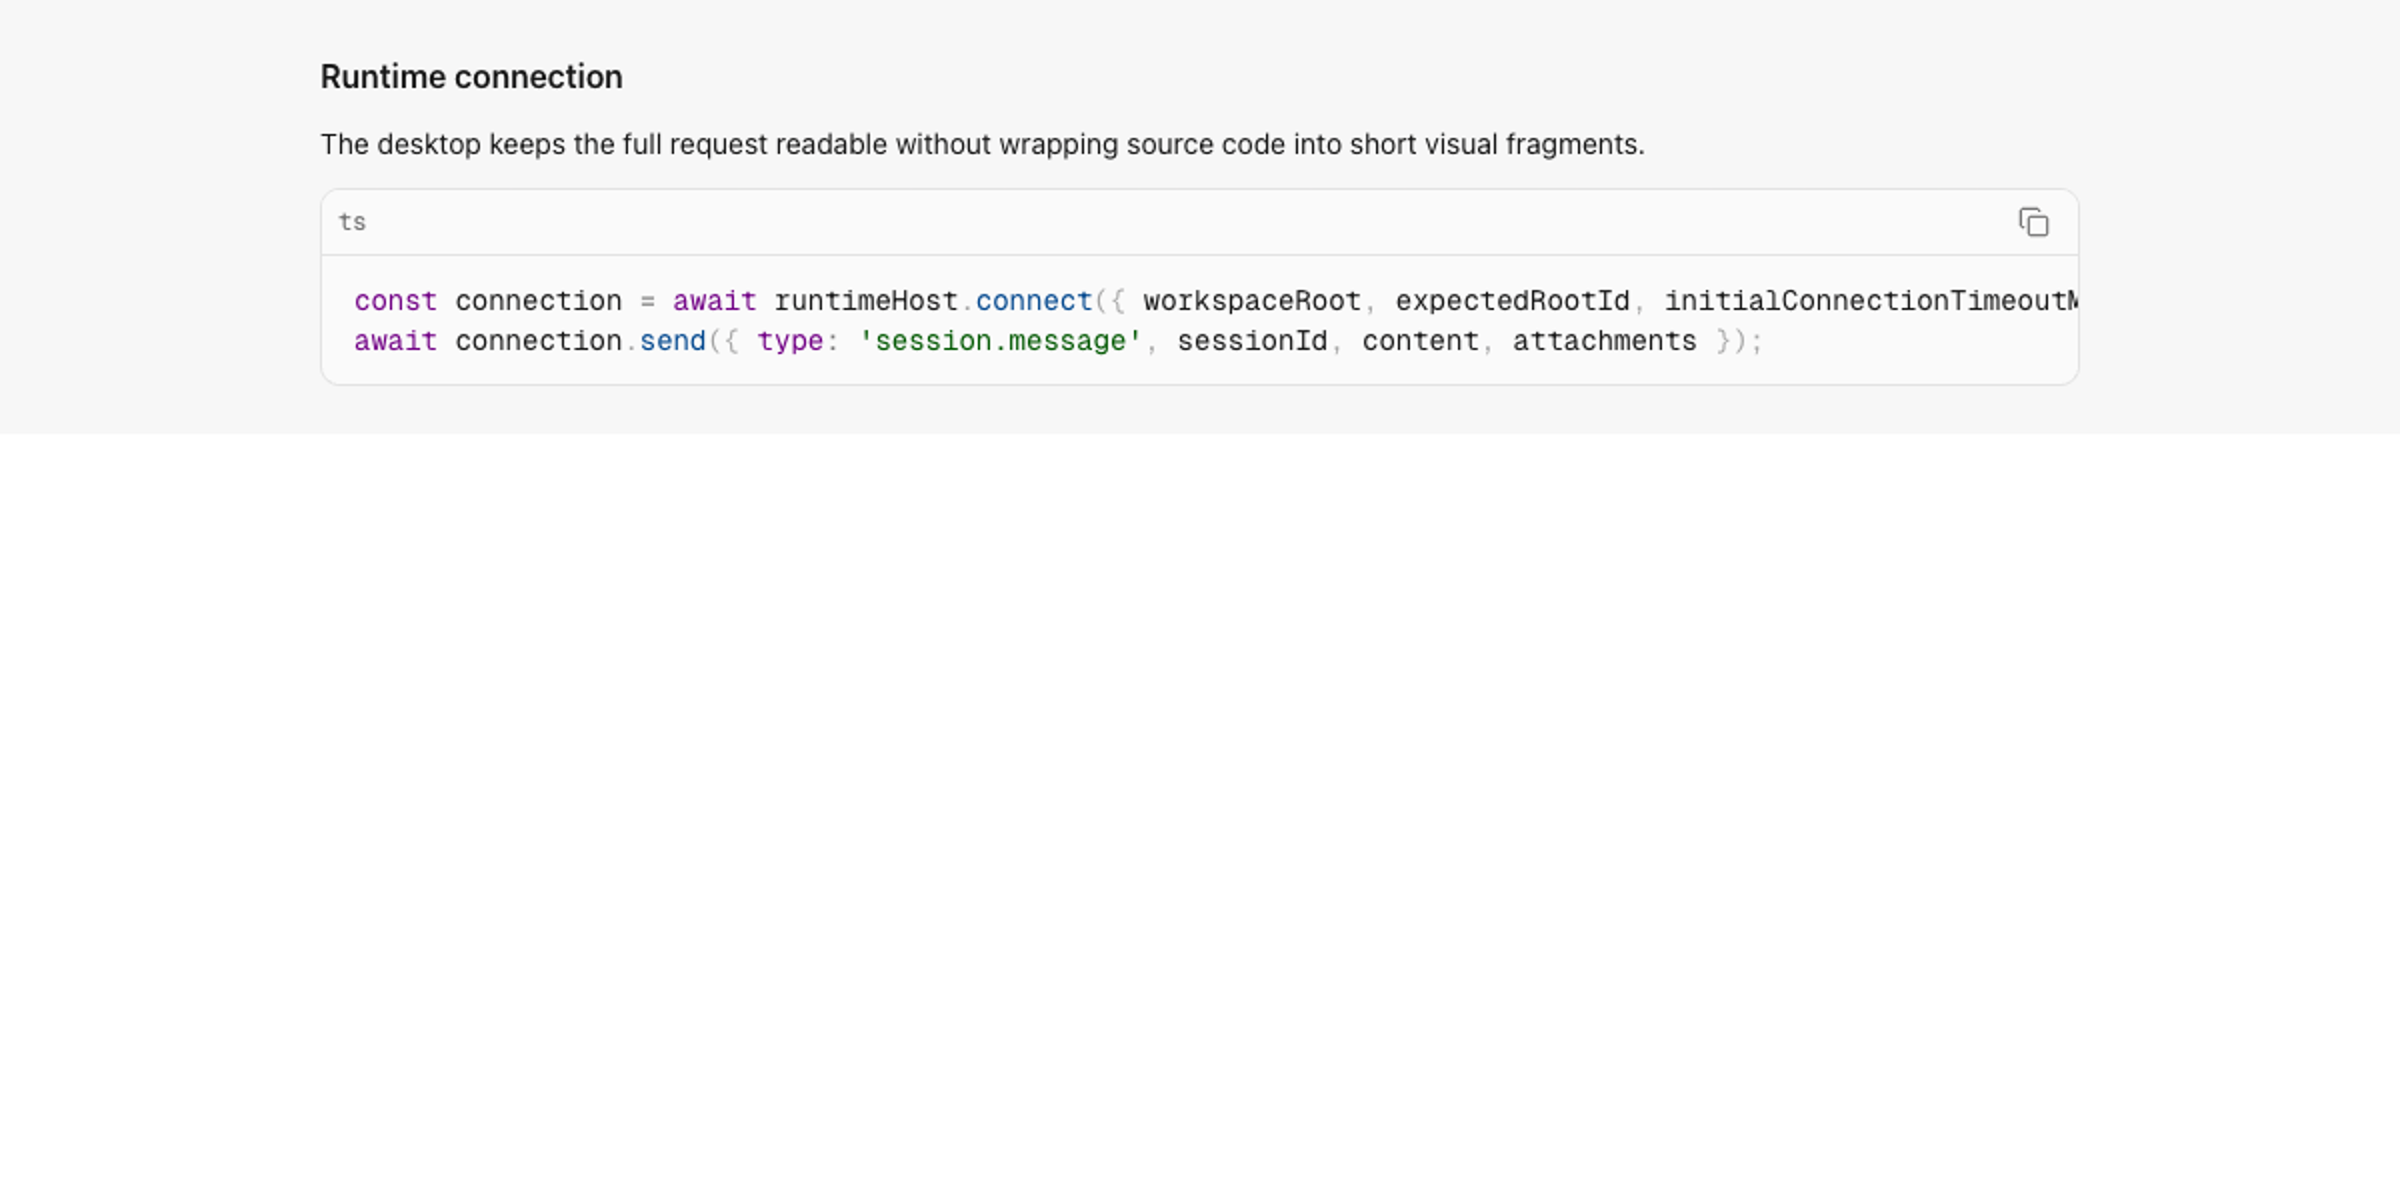
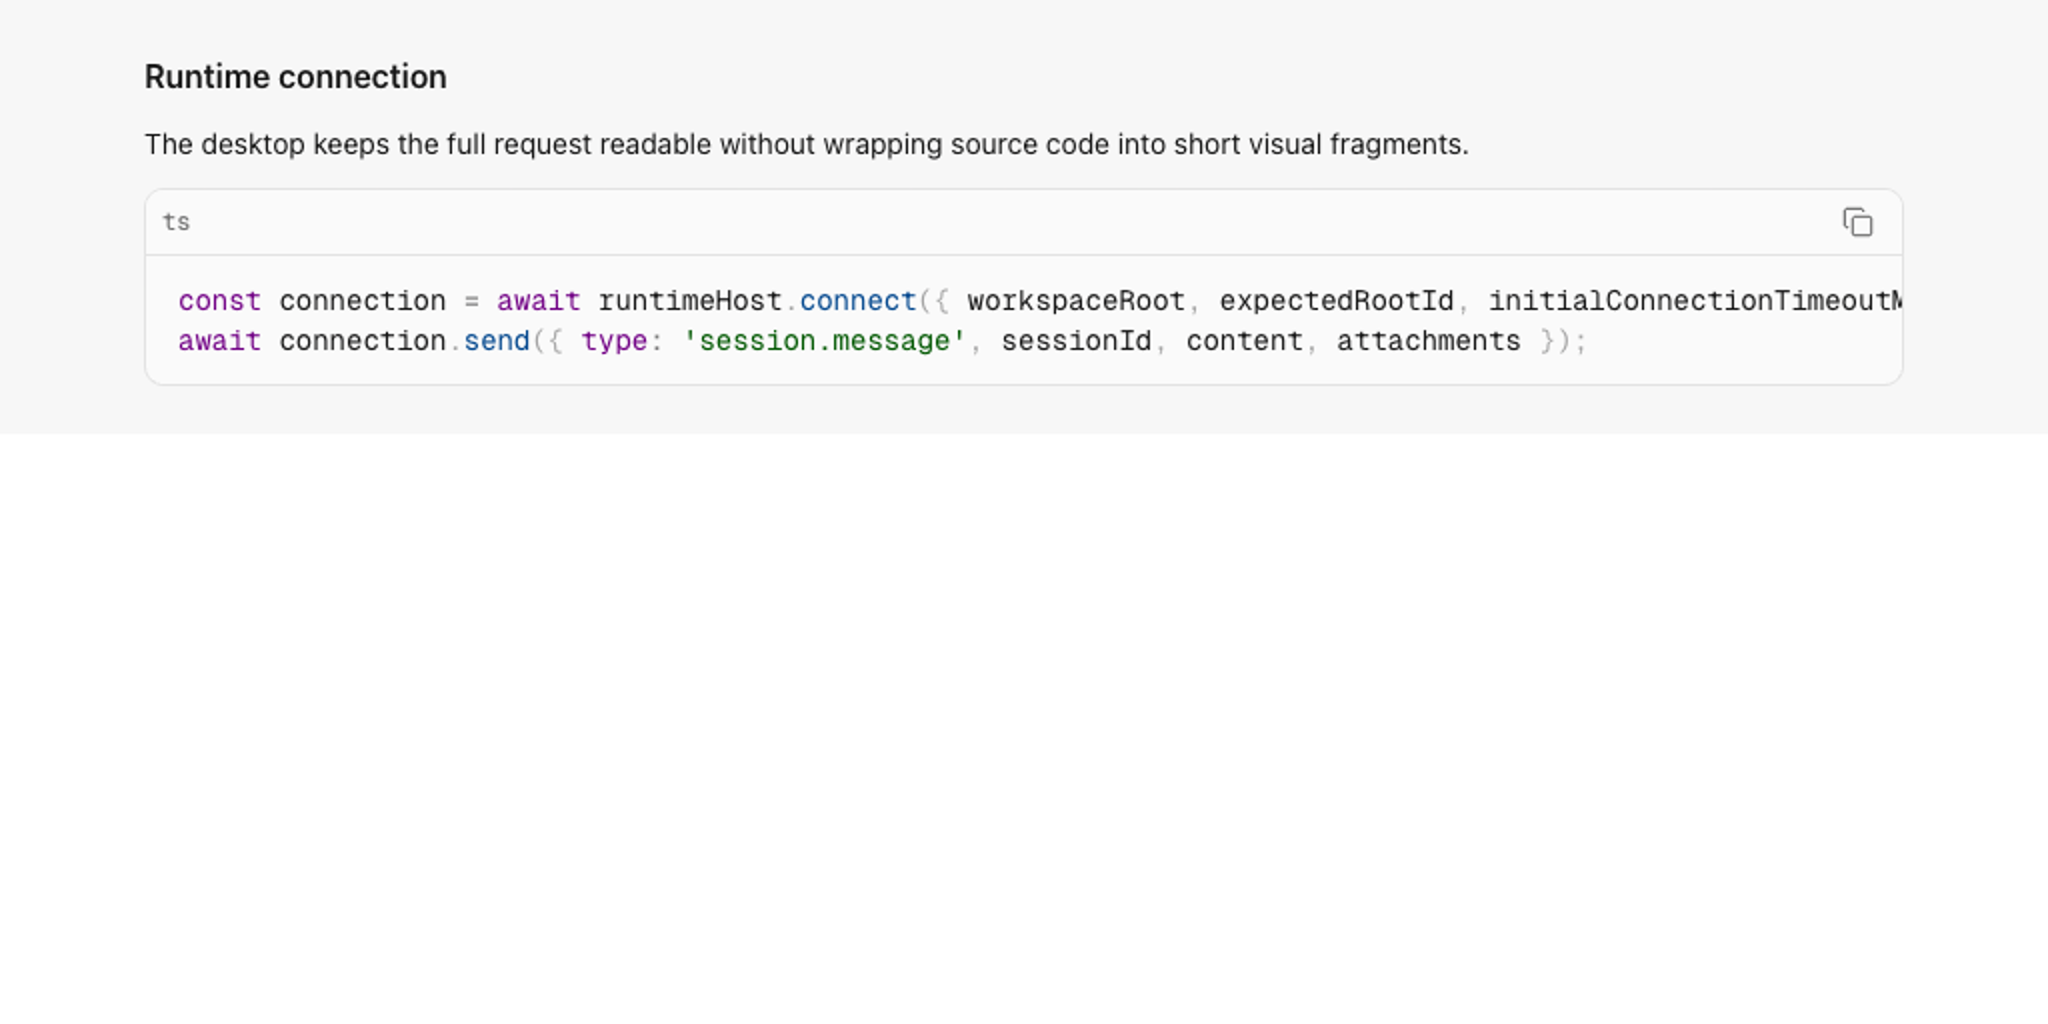
fix(ui): let markdown code fill the transcript
Generated-by: Codex

Changed region(s): [[0.0938, 0.2188, 0.9375, 0.3438], [0.0625, 0.0312, 0.7188, 0.1562]]

diff --git a/packages/ui/src/markdown-body.tsx b/packages/ui/src/markdown-body.tsx
@@ -221,6 +221,10 @@ function MarkdownCode(props: {
       <CodeBlock
         code={props.code}
         language={props.language}
+        // Markdown fences are block content. Astryx defaults to fit-content
+        // with a 400px floor, which leaves short-code fences visibly narrow
+        // even when the surrounding transcript has room to stay readable.
+        width="100%"
         // Astryx otherwise overlays the copy button on headerless plaintext.
         // An empty title enables its structural header; once that header becomes
         // a collapse button, give plaintext the same localized code label that
